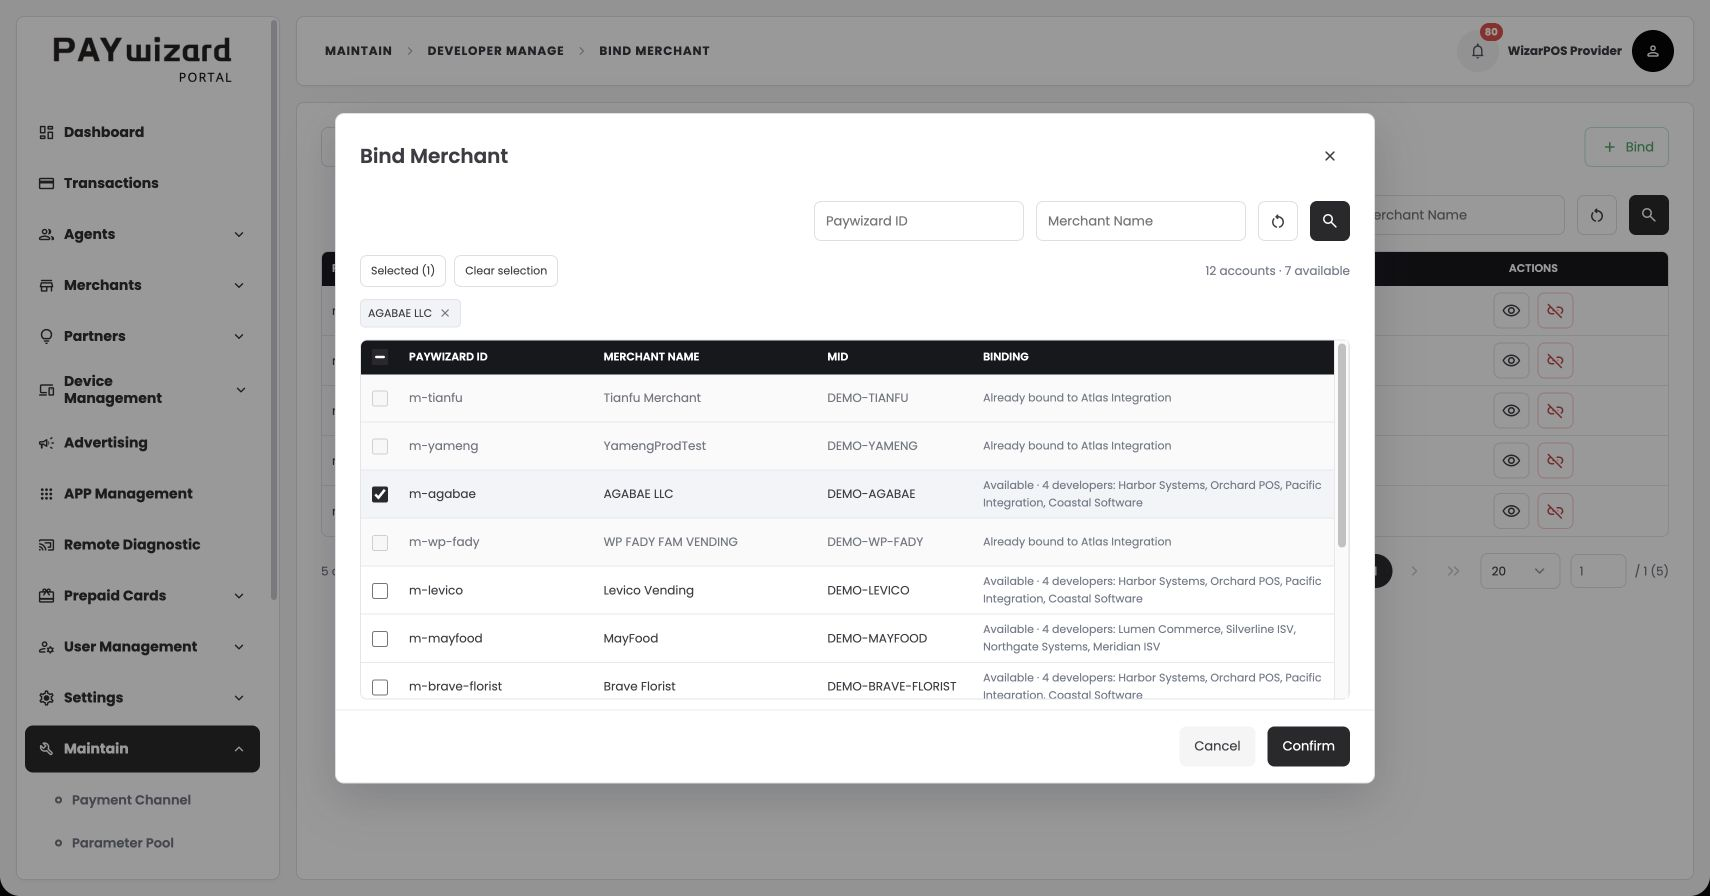
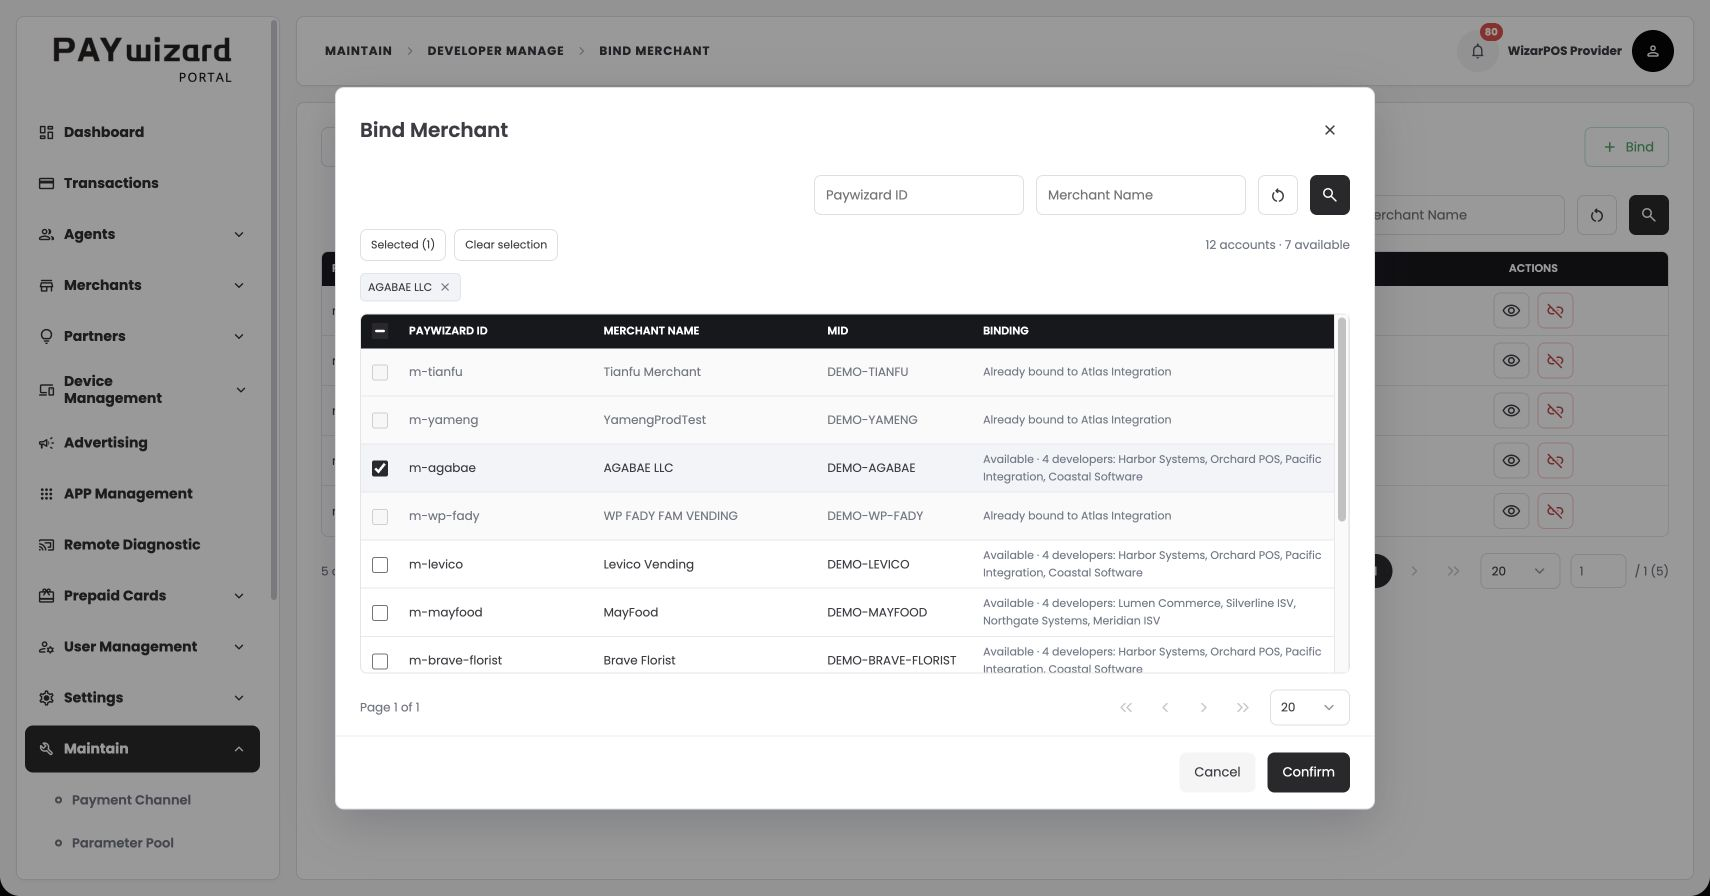
1

diff --git a/docs/validation/developer-management/README.md b/docs/validation/developer-management/README.md
@@ -1,0 +1,47 @@
+# 开发者账号管理验收记录
+
+日期：2026-10-21。
+
+## 范围与结果
+
+MAINTAIN → Developer Manage 已接入共享 Portal 框架。四个页面入口为：
+
+- `50.developer_manage.html`：账号列表、筛选分页、新增编辑、密钥显隐、重发和重置。
+- `50.developer_binding.html`：`kind=merchant` 为商户绑定，`kind=plat` 为服务商／代理商绑定。
+- `50.developer_allowlist.html`：IP 列表、新增删除，与账号编辑共用同一份白名单。
+- `50.developer_token.html`：商户 Terminal／ECOMM Token 与平台 Token 的显隐、重置和发送。
+
+新增三个身份字段锁定、自动绑定、所属服务商候选范围、非独占绑定、共享 Token 和邮件模拟均按[复刻说明](../../design/developer-management-replica.md)实现。白名单两入口按用户确认统一 IPv4、重复项及最后一条地址保护规则。编辑仅提交可编辑信息，不能以旧表单快照恢复已经重置的 Client Secret。
+
+## 自动验证
+
+- `tests/developer-management.spec.js`：10 项通过，最终候选分页补齐后重新执行通过。
+- `tests/payment-channel-maintain.spec.js`：13 项回归通过，覆盖共享选择器原有单多选、搜索、键盘、低窗口定位、失败保留等行为。
+- `npm run build`：通过，四个页面及其资源已进入 `dist/`。
+- 新增脚本的 `node --check`、`git diff --check`：通过。
+
+功能测试还覆盖账号重复、创建自动绑定、创建后只读身份、两类 Token、取消重置、跨开发者共享重置、白名单双入口同步、取消未保存修改、候选跨搜索及跨页保留、全选跳过当前绑定、空结果、写入失败保留输入、错误聚焦、失效 URL 和非运维展示身份的导航限制。
+
+标准复跑命令如下；项目测试配置会自行启动 8765 端口的服务器，执行前需先停止同端口的开发预览。本轮使用临时测试配置复用已有预览服务器，不修改仓库测试服务器设置。
+
+```sh
+npx playwright test tests/developer-management.spec.js tests/payment-channel-maintain.spec.js
+npm run build
+```
+
+## 桌面页面检查
+
+在 Chrome 实际打开账号列表、新增弹窗、商户绑定、平台绑定、商户 Token、平台 Token 和白名单页面。检查了 34px／11px 表头、36px 行操作、40px 表单按钮、菜单定位、服务商搜索键盘选择、已选与禁选状态、共享 Token 提示和错误位置。
+
+实际页面检查发现并修正了弹窗表格未继承黑色背景的问题，以及密钥文本的逐行滚动条。自动测试另外以 1366×720 桌面视口检查底部选择器和错误提示位于可视范围、固定操作区仍可操作。未进行手机浏览器检查。
+
+截图：
+
+- [列表与更多菜单](list-menu.png)
+- [新增开发者](add-developer.png)
+- [商户绑定与已选状态](bind-merchant.png)
+- [删除最后一条 IP 的错误定位](allowlist-error.png)
+
+## 验证边界
+
+状态仅保存在本地浏览器，示例账号使用虚构邮箱与演示凭证。发送操作写入本地模拟记录并明确反馈未发送真实邮件；未调用运维生产接口。新商户创建链路不在本次范围，两个 Auto Send 选项仅保存其已确认的邮件偏好。展示身份限制不代表服务端鉴权已验收。未执行生产发布。

diff --git a/docs/design/developer-management-replica.md b/docs/design/developer-management-replica.md
@@ -47,10 +47,12 @@
 - 使用共享 Portal 顶栏、侧栏和 MAINTAIN 导航；Developer Manage 仅在当前 MAINTAIN 适用的运维展示身份下开放。
 - 以 Payment Channel 的内容卡、搜索栏与分页为基线；黑色表头高 34px、字号 11px，行操作高 36px，表单按钮高 40px；图标统一 Material Symbols Rounded。
 - 新增/编辑采用弹窗，固定头尾、内容内部滚动。绑定、白名单和 Token 保留独立子页，标题前使用统一返回按钮，返回时保留上级筛选和分页。
-- 选择器支持点选、输入搜索、键盘、独立滚动和视口边缘定位；多选保留跨搜索选择，并可集中查看和逐项取消。
+- 选择器支持点选、输入搜索、键盘、独立滚动和视口边缘定位；绑定候选支持分页和每页数量切换，多选保留跨搜索、跨页选择，并可集中查看和逐项取消。
 - 校验错误在实际滚动容器内定位并聚焦，保留输入；保存期间避免重复提交。取消未保存修改时沿用项目保护交互。
 - 组件参考 PrimeVue v4 的 DataTable、Paginator、Dialog、ConfirmDialog、Select、MultiSelect、Menu 和 Message 模式；使用既有静态组件实现，不引入框架。
 - 使用虚构演示数据和演示凭证，不从截图或源码配置提取真实密钥。
+
+本次已核查 [Select](https://v4.primevue.org/select/)、[Dialog](https://v4.primevue.org/dialog/)、[ConfirmDialog](https://v4.primevue.org/confirmdialog/)、[Paginator](https://v4.primevue.org/paginator/) 官方说明。DataTable、MultiSelect、Menu 的官方页面本次未能读取，沿用项目已有静态实现及其键盘交互，并完成相关回归；不宣称已核验研发组件的全部 API。
 
 ## 验收
 
